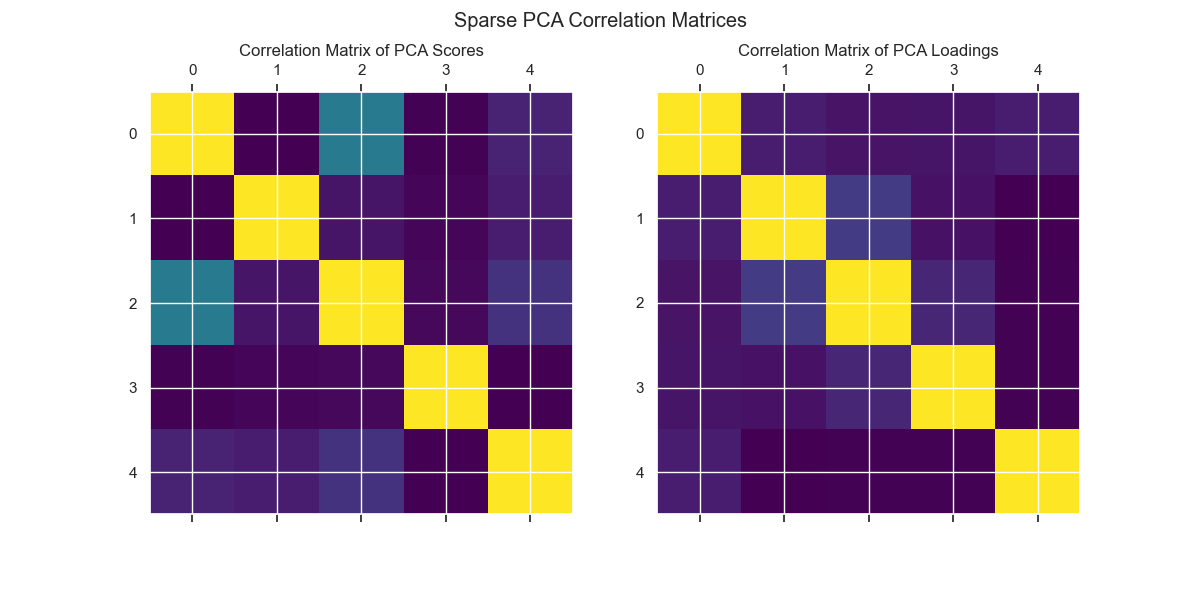
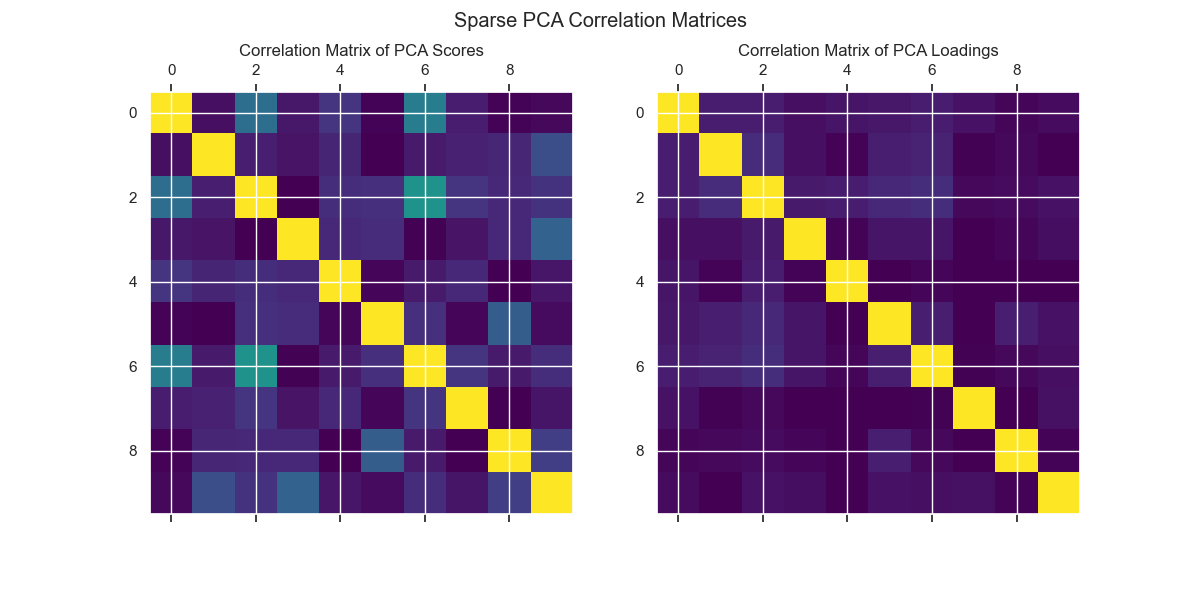
Rescaled pca plot labels

diff --git a/src/case2/subspace_methods/pca.py b/src/case2/subspace_methods/pca.py
@@ -70,8 +70,7 @@ def plot_explained_variance(pca: PCA) -> None:
     plt.xlabel("Principal Component")
     plt.ylabel("Explained Variance Ratio")
     plt.xticks(range(1, n_components + 1))
-    plt.savefig(
-        FIGURE_DIR / "pca" /"explained_variance_ratio.png")
+    plt.savefig(FIGURE_DIR / "pca" / "explained_variance_ratio.png")
 
 
 def scree_plot(X: np.ndarray, pca: PCA) -> None:
@@ -118,7 +117,7 @@ def scree_plot(X: np.ndarray, pca: PCA) -> None:
     plt.xticks(range(1, n_components + 1))
     plt.legend()
     plt.savefig(
-        FIGURE_DIR / "pca" /"scree_plot.png",
+        FIGURE_DIR / "pca" / "scree_plot.png",
     )
 
 
@@ -147,13 +146,11 @@ def pca_correlation_matrix(X: np.ndarray, pca: PCA) -> None:
     if isinstance(pca, SparsePCA):
         plt.suptitle("Sparse PCA Correlation Matrices")
         plt.savefig(
-            FIGURE_DIR / "sparse_pca" /"sparse_pca_correlation_matrix.png",
+            FIGURE_DIR / "sparse_pca" / "sparse_pca_correlation_matrix.png",
         )
     else:
         plt.suptitle("PCA Correlation Matrices")
-        plt.savefig(
-            FIGURE_DIR / "pca" / "pca_correlation_matrix.png"
-        )
+        plt.savefig(FIGURE_DIR / "pca" / "pca_correlation_matrix.png")
 
 
 def plot_pca(X: np.ndarray, y: np.ndarray, pca: PCA) -> None:
@@ -180,6 +177,7 @@ def plot_pca(X: np.ndarray, y: np.ndarray, pca: PCA) -> None:
         if column not in titles:
             titles[column] = np.sort(data[column].unique())
 
+
     # Determine grid dimensions using a near-square layout
     n_plots = len(titles)
     ncols = math.ceil(math.sqrt(n_plots))
@@ -192,16 +190,25 @@ def plot_pca(X: np.ndarray, y: np.ndarray, pca: PCA) -> None:
 
     # Iterate over each title and plot
     for ax, (title, unique_values) in zip(axes, titles.items()):
+        # Determine if values need rescaling
+        shift = 0 in unique_values
+
         for value in unique_values:
             try:
                 mask = data.index.get_level_values(title) == value
             except KeyError:
-                mask = data[title] == value
+                if value == -1:
+                    continue
+                else:
+                    mask = data[title] == value
+
             indices = np.where(mask)[0]
+            label_val = value + 1 if shift else value
+
             ax.scatter(
                 X_pca[indices, 0],
                 X_pca[indices, 1],
-                label=value,
+                label=label_val,
                 alpha=0.7,
             )
         ax.set_xlabel("PC 1")
@@ -216,21 +223,20 @@ def plot_pca(X: np.ndarray, y: np.ndarray, pca: PCA) -> None:
             ax.set_title(f"PCA - {title}")
 
     # Turn off any extra axes
-    for ax in axes[len(titles):]:
+    for ax in axes[len(titles) :]:
         ax.set_visible(False)
 
     plt.tight_layout()
     if isinstance(pca, SparsePCA):
-        plt.savefig(FIGURE_DIR / "sparse_pca" / "pca_subplots.png")
+        plt.savefig(FIGURE_DIR / "sparse_pca" / "sparse_pca_subplots.png")
     else:
         plt.savefig(FIGURE_DIR / "pca" / "pca_subplots.png")
-
 
 
 def plot_features_against_loadings(data: np.ndarray, features: list, pca: PCA) -> None:
     """
     Plot the features against the loadings of the PCA components.
-    
+
     Parameters
     ----------
     pca : PCA
@@ -245,15 +251,21 @@ def plot_features_against_loadings(data: np.ndarray, features: list, pca: PCA) -
     feature_indices = [feature_names.get_loc(feature) for feature in features]
     feature_names = [feature_names[i] for i in feature_indices]
 
-
     plt.figure(figsize=(8, 6))
-    plt.axhline(0, color='grey', linestyle='--', linewidth=1)
-    plt.axvline(0, color='grey', linestyle='--', linewidth=1)
+    plt.axhline(0, color="grey", linestyle="--", linewidth=1)
+    plt.axvline(0, color="grey", linestyle="--", linewidth=1)
 
     # Plot the loadings as vectors
     for idx, varname in zip(feature_indices, feature_names):
-        plt.plot(loadings[idx, 0], loadings[idx, 1], 'o', color='r')
-        plt.text(loadings[idx, 0], loadings[idx, 1] + 0.025, varname, color='b', ha='center', va='center')
+        plt.plot(loadings[idx, 0], loadings[idx, 1], "o", color="r")
+        plt.text(
+            loadings[idx, 0],
+            loadings[idx, 1] + 0.025,
+            varname,
+            color="b",
+            ha="center",
+            va="center",
+        )
 
     plt.xlabel("PC 1")
     plt.ylabel("PC 2")
@@ -262,12 +274,14 @@ def plot_features_against_loadings(data: np.ndarray, features: list, pca: PCA) -
     plt.tight_layout()
     if isinstance(pca, SparsePCA):
         plt.savefig(
-            FIGURE_DIR / "sparse_pca" /"sparse_pca_loadings.png",
+            FIGURE_DIR / "sparse_pca" / "sparse_pca_loadings.png",
         )
     else:
         plt.savefig(
-            FIGURE_DIR / "pca" /"pca_loadings.png",
+            FIGURE_DIR / "pca" / "pca_loadings.png",
         )
+
+
 def print_top_features(pca: PCA, features: list, n_features: int = 3) -> None:
     """
     Print the top features for each PCA component.
@@ -290,7 +304,9 @@ def print_top_features(pca: PCA, features: list, n_features: int = 3) -> None:
         print()
         # Save the top features to a file
         if isinstance(pca, SparsePCA):
-            with open(FIGURE_DIR / "sparse_pca" / "sparse_pca_top_features.txt", "a") as f:
+            with open(
+                FIGURE_DIR / "sparse_pca" / "sparse_pca_top_features.txt", "a"
+            ) as f:
                 f.write(f"Top {n_features} features for component {i + 1}:\n")
                 f.write(", ".join([features[idx] for idx in top_indices]) + "\n\n")
                 f.write(f"Bottom {n_features} features for component {i + 1}:\n")
@@ -302,7 +318,7 @@ def print_top_features(pca: PCA, features: list, n_features: int = 3) -> None:
                 f.write(f"Bottom {n_features} features for component {i + 1}:\n")
                 f.write(", ".join([features[idx] for idx in bottom_indices]) + "\n\n")
     print("Top features saved to file.")
-        
+
 
 def pca_pipeline(pca: PCA, X: pd.DataFrame, y: pd.DataFrame) -> None:
     """
@@ -319,8 +335,6 @@ def pca_pipeline(pca: PCA, X: pd.DataFrame, y: pd.DataFrame) -> None:
     """
     # Preprocess data
     X_preprocessed, y_preprocessed = preprocess_pca_data(X, y)
-
-    
 
     # Fit PCA
     pca.fit(X_preprocessed)
@@ -352,7 +366,7 @@ def pca_pipeline(pca: PCA, X: pd.DataFrame, y: pd.DataFrame) -> None:
 
 def run_pca_pipeline(X: pd.DataFrame, y: pd.DataFrame):
     # Example usage
-    pca = PCA(n_components=5)
+    pca = PCA(n_components=10)
     pca_pipeline(pca, X, y)
-    sparse_pca = SparsePCA(n_components=5, alpha=0.1, ridge_alpha=0.1)
+    sparse_pca = SparsePCA(n_components=10, alpha=0.1, ridge_alpha=0.1)
     pca_pipeline(sparse_pca, X, y)
